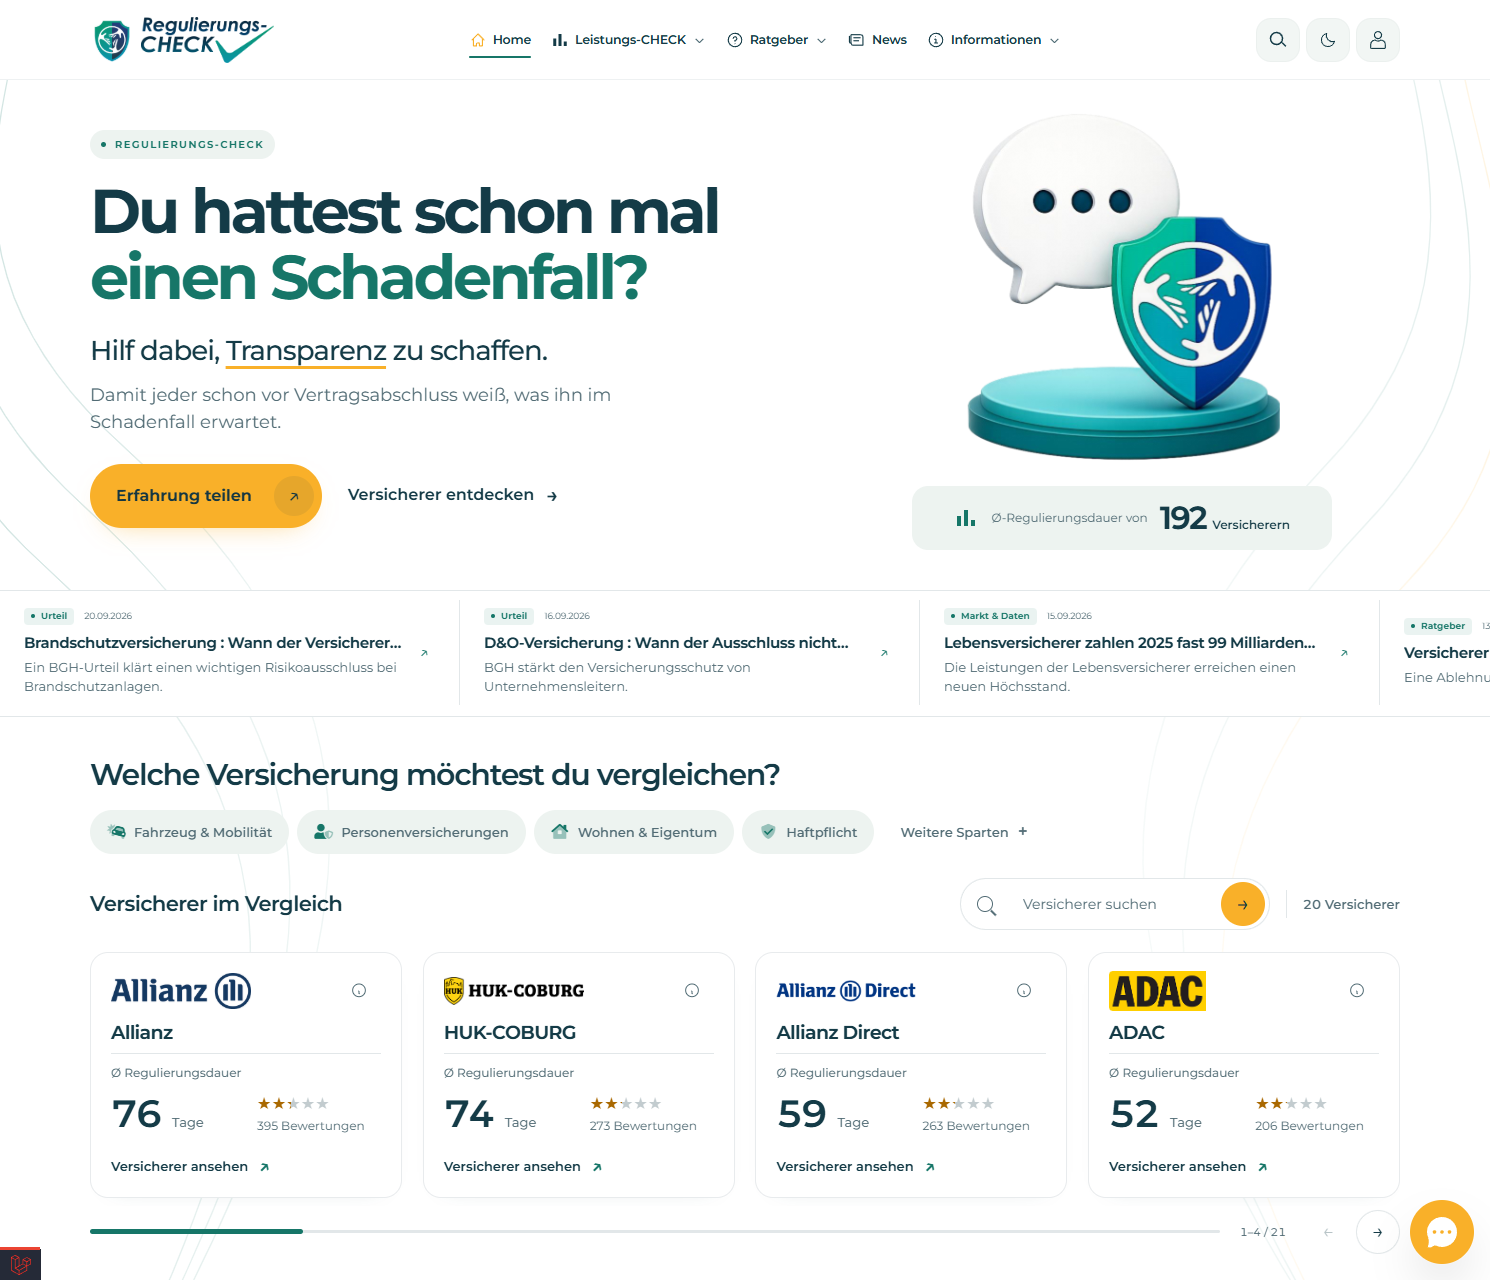
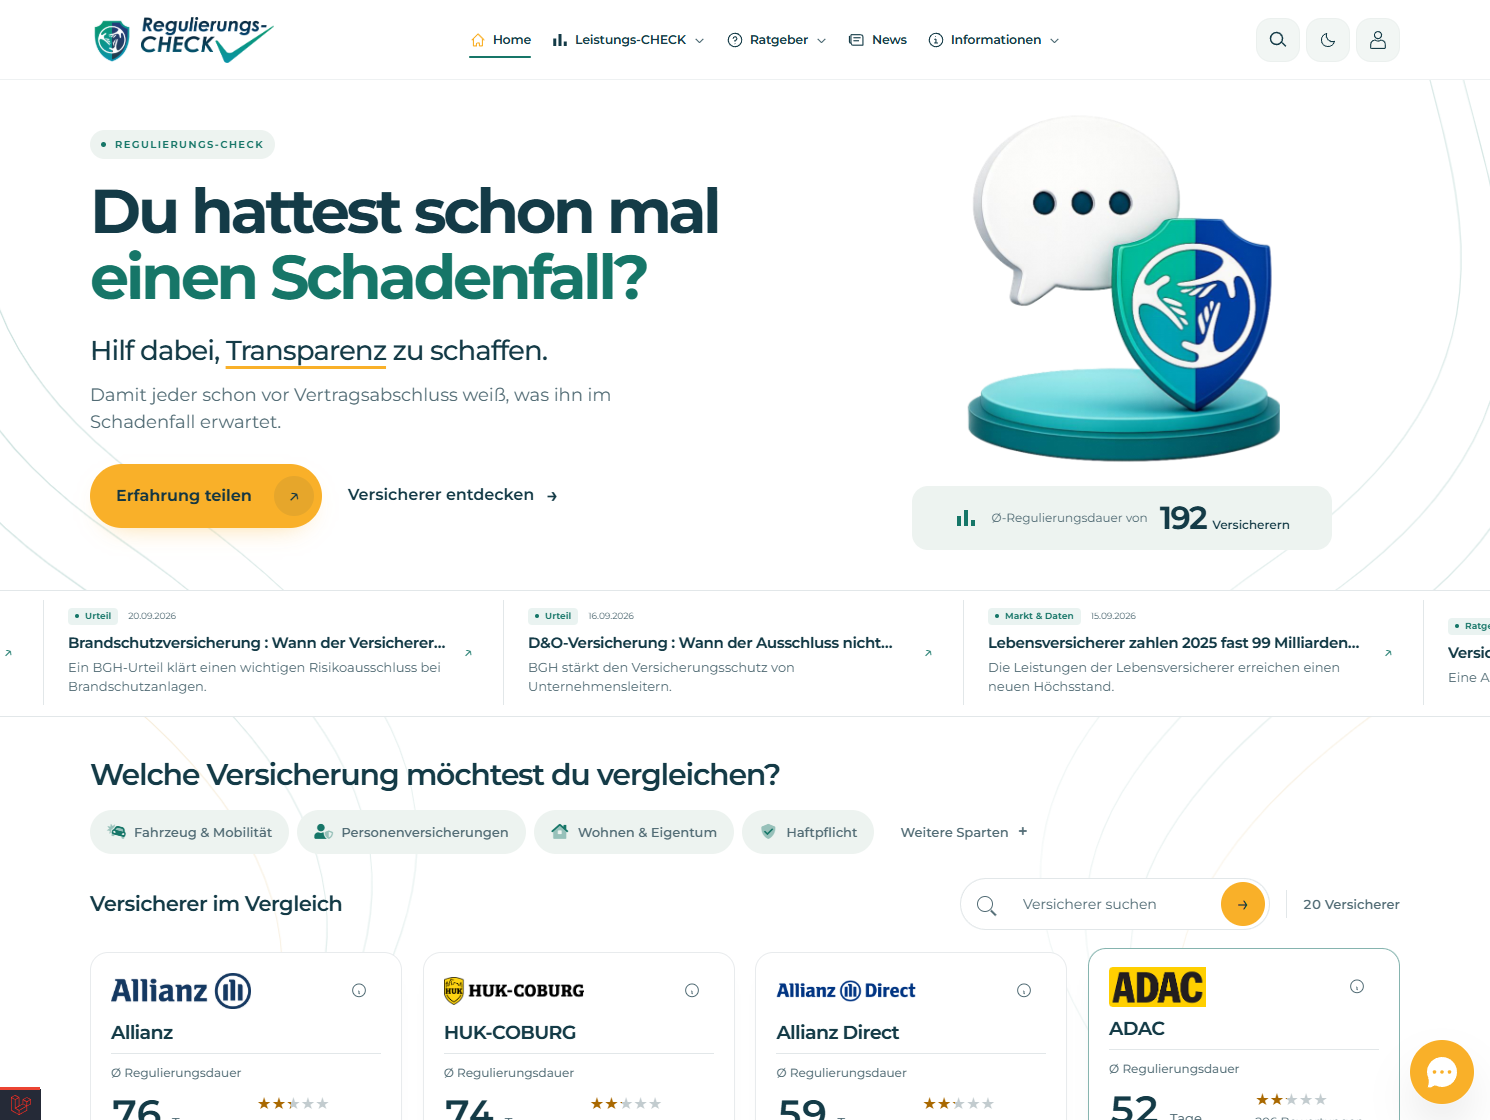
feat: Implement app background motion and enhance homepage styling

diff --git a/resources/js/app.js b/resources/js/app.js
@@ -615,6 +615,82 @@ const heroMotion = new Map();
 let observer;
 let motionRoot;
 const reducedMotion = window.matchMedia('(prefers-reduced-motion: reduce)');
+let appBackgroundMotion;
+
+function createAppBackgroundMotion(root) {
+    const layers = [...root.querySelectorAll('.app-background-layer')];
+    const properties = ['--background-x', '--background-y', '--background-rotate'];
+    const originals = layers.map(layer => properties.map(name => [name, layer.style.getPropertyValue(name), layer.style.getPropertyPriority(name)]));
+    let frame = 0;
+    let destroyed = false;
+    let current = window.scrollY || 0;
+    let target = current;
+    let lastTime = 0;
+
+    const paint = position => {
+        layers.forEach(layer => {
+            const far = layer.classList.contains('app-background-layer-far');
+            const x = far ? -Math.sin(position / 900) * 35 : Math.sin(position / 820) * 44;
+            const y = far ? Math.sin(position / 1150) * 58 : -Math.sin(position / 1050) * 76;
+            const rotation = Math.sin(position / 1500) * (far ? -.45 : .6);
+            layer.style.setProperty('--background-x', `${x.toFixed(2)}px`);
+            layer.style.setProperty('--background-y', `${y.toFixed(2)}px`);
+            layer.style.setProperty('--background-rotate', `${rotation.toFixed(3)}deg`);
+        });
+    };
+    const tick = time => {
+        frame = 0;
+        if (destroyed) return;
+        if (!root.isConnected) { destroy(); return; }
+        const delta = lastTime ? Math.min(time - lastTime, 50) : 16;
+        lastTime = time;
+        current += (target - current) * (1 - Math.exp(-delta / 140));
+        if (Math.abs(target - current) < .1) current = target;
+        paint(current);
+        if (current !== target) frame = requestAnimationFrame(tick);
+        else { root.classList.remove('is-scrolling'); lastTime = 0; }
+    };
+    const update = event => {
+        // Only the document scroll drives the canvas, never carousels or dialogs.
+        if (destroyed || (event?.type === 'scroll' && event.target !== document)) return;
+        target = Math.max(0, window.scrollY || 0);
+        if (!frame && target !== current) {
+            root.classList.add('is-scrolling');
+            frame = requestAnimationFrame(tick);
+        }
+    };
+    function destroy() {
+        if (destroyed) return;
+        destroyed = true;
+        cancelAnimationFrame(frame);
+        root.classList.remove('is-scrolling');
+        document.removeEventListener('scroll', update);
+        window.removeEventListener('resize', update);
+        layers.forEach((layer, index) => originals[index].forEach(([name, value, priority]) => {
+            if (value) layer.style.setProperty(name, value, priority);
+            else layer.style.removeProperty(name);
+        }));
+    }
+    paint(current);
+    document.addEventListener('scroll', update, { passive: true });
+    window.addEventListener('resize', update, { passive: true });
+    return { root, destroy, get destroyed() { return destroyed; } };
+}
+
+function stopAppBackgroundMotion() {
+    appBackgroundMotion?.destroy();
+    appBackgroundMotion = undefined;
+}
+
+function refreshAppBackgroundMotion() {
+    const root = document.querySelector('.app-background');
+    document.documentElement.classList.toggle('app-background-paused', document.hidden);
+    if (root && appBackgroundMotion?.root === root && !appBackgroundMotion.destroyed && !reducedMotion.matches && !document.hidden) return;
+    stopAppBackgroundMotion();
+    if (root && !reducedMotion.matches && !document.hidden) appBackgroundMotion = createAppBackgroundMotion(root);
+}
+
+document.addEventListener('visibilitychange', refreshAppBackgroundMotion);
 
 function stopHomepageMotion(resetHistory = false) {
     observer?.disconnect();
@@ -662,22 +738,20 @@ function revealHomepageElement(element) {
     }
     if (element.contains(document.activeElement)) return;
     const delay = revealDelay(element);
-    const background = element.matches('.homepage-background');
     const header = element.matches('.site-header .header-inner');
     const icon = element.matches('.hero-actions .button-icon');
     const visual = element.matches('.hero-visual');
     const cards = element.matches('.insurer-card, .review-card, #ablauf .steps article');
-    const targetOpacity = background ? Number.parseFloat(getComputedStyle(element).opacity) : 1;
-    const duration = (background ? 1500 : header ? 800 : element.closest('.hero') ? 940 : 880) + delay;
+    const targetOpacity = 1;
+    const duration = (header ? 800 : element.closest('.hero') ? 940 : 880) + delay;
     let transform = 'translate3d(0, 32px, 0)';
-    if (background) transform = 'translate3d(0, 44px, 0)';
-    else if (header) transform = 'translate3d(0, -14px, 0)';
+    if (header) transform = 'translate3d(0, -14px, 0)';
     else if (icon) transform = 'translate3d(-4px, 4px, 0) rotate(-12deg) scale(.86)';
     else if (visual) transform = 'translate3d(30px, 18px, 0) scale(.97)';
     else if (cards) transform = 'translate3d(0, 32px, 0) scale(.975)';
     else if (element.matches('.filter')) transform = 'translate3d(0, 16px, 0)';
     const start = {
-        opacity: background ? 0 : icon ? .6 : visual ? 1 : .08,
+        opacity: icon ? .6 : visual ? 1 : .08,
         transform,
     };
     const frames = [{ ...start, offset: 0 }];
@@ -827,7 +901,7 @@ function refreshHomepageMotion() {
     const headline = document.querySelector('.hero h1');
     const headlineLines = headline ? [...headline.querySelectorAll('.hero-title-line')] : [];
     const splitHeadline = headlineLines.length > 1 && headlineLines.every(line => getComputedStyle(line).display === 'block');
-    document.querySelectorAll('.homepage-background, .site-header .header-inner, .hero .eyebrow, .hero h1, .hero-title-line, .hero-subtitle, .hero-lead, .hero-actions, .hero-actions .button-icon, .hero-visual, .hero-count, #wissen, .explorer-heading, #versicherer .filter, .insurance-toolbar, .insurer-card, .experience-intro, .review-card, #ablauf .process-intro, #ablauf .steps article, #plattform > div, #newsletter, .homepage-cms-content, .homepage-cms-footer').forEach(element => {
+    document.querySelectorAll('.site-header .header-inner, .hero .eyebrow, .hero h1, .hero-title-line, .hero-subtitle, .hero-lead, .hero-actions, .hero-actions .button-icon, .hero-visual, .hero-count, #wissen, .explorer-heading, #versicherer .filter, .insurance-toolbar, .insurer-card, .experience-intro, .review-card, #ablauf .process-intro, #ablauf .steps article, #plattform > div, #newsletter, .homepage-cms-content, .homepage-cms-footer').forEach(element => {
         if (element === headline && splitHeadline) return;
         if (headlineLines.includes(element) && !splitHeadline) return;
         const key = revealKey(element);
@@ -842,6 +916,7 @@ function refreshHomepageMotion() {
 }
 
 const onHomepageMotionChange = () => {
+    refreshAppBackgroundMotion();
     stopHomepageMotion();
     refreshHomepageMotion();
 };
@@ -906,6 +981,7 @@ function initializeSearch() {
 }
 
 function synchronizeHomepage() {
+    refreshAppBackgroundMotion();
     stopSearch();
     const home = document.body.classList.contains('rc-home');
     document.documentElement.toggleAttribute('data-homepage', home);
@@ -951,8 +1027,12 @@ document.addEventListener('livewire:navigating', () => {
     stopSearch();
     stopSliders();
     stopHomepageMotion(true);
+    stopAppBackgroundMotion();
 });
-window.addEventListener('pagehide', () => { stopSearch(); stopSliders(); stopHomepageMotion(true); });
+window.addEventListener('pagehide', () => {
+    stopSearch(); stopSliders(); stopHomepageMotion(true); stopAppBackgroundMotion();
+    document.documentElement.classList.add('app-background-paused');
+});
 window.addEventListener('pageshow', event => { if (event.persisted) scheduleRefresh(); });
 if (document.readyState === 'loading') document.addEventListener('DOMContentLoaded', scheduleRefresh, { once: true });
 else scheduleRefresh();

diff --git a/resources/css/app.css b/resources/css/app.css
@@ -3676,43 +3676,67 @@ body.rc-home.homepage .homepage-cms-footer button[type=submit]:active{transform:
   body.rc-home.homepage .footer-bottom>div{gap:2px 16px;}
 }
 
-/* Quiet vector lines follow scroll progress behind the homepage content. */
-body.rc-home.homepage{isolation:isolate;}
-body.rc-home.homepage .homepage-background{
-  position:fixed;inset:-20% -3%;z-index:-1;overflow:hidden;pointer-events:none;
-  color:var(--accent);opacity:.26;
-  -webkit-mask-image:linear-gradient(90deg,#000,transparent 34%,transparent 66%,#000);
-  mask-image:linear-gradient(90deg,#000,transparent 34%,transparent 66%,#000);
+/* Shared canvas: entrance, quiet drift and scroll motion have separate layers. */
+body.has-app-background{
+  isolation:isolate;
+  --app-background-ink:#167668;--app-background-gold:#cf9a35;--app-background-opacity:.3;
 }
-body.rc-home.homepage .homepage-background-lines{
-  position:absolute;inset:0;display:block;width:100%;height:100%;
-  stroke:currentColor;stroke-width:1.35;stroke-linecap:round;opacity:.8;transform-box:border-box;
+body.has-app-background.bg-main::after{z-index:-2;}
+body.has-app-background.bg-main:not(.rc-home):not([data-app-surface=paper]){
+  --app-background-ink:#9ce6d8;--app-background-gold:#f5cf83;--app-background-opacity:.24;
 }
-body.rc-home.homepage .homepage-background-lines path{vector-effect:non-scaling-stroke;}
-body.rc-home.homepage .homepage-background-lines-far{opacity:.55;}
-body.rc-home.homepage .homepage-background-line-warm{stroke:var(--gold);}
-html[data-homepage][data-theme=dark] body.rc-home.homepage .homepage-background{opacity:.18;}
-@keyframes homepage-lines-near{
-  from{transform:translate3d(0,0,0);}
-  to{transform:translate3d(36px,-14%,0);}
+body.has-app-background[data-app-surface=paper]:not(.rc-home){background:#fff;}
+body.has-app-background[data-app-surface=paper]::after{content:none;}
+body.has-app-background[data-app-surface=muted]{background:#f3f4f6;}
+body.has-app-background .app-background-canvas{background-color:transparent;}
+.app-background{
+  position:fixed;inset:-28% -10%;z-index:-1;overflow:hidden;pointer-events:none;
+  color:var(--app-background-ink);opacity:var(--app-background-opacity);
+  -webkit-mask-image:linear-gradient(90deg,#000,rgba(0,0,0,.48) 25%,rgba(0,0,0,.03) 46%,rgba(0,0,0,.03) 54%,rgba(0,0,0,.48) 75%,#000);
+  mask-image:linear-gradient(90deg,#000,rgba(0,0,0,.48) 25%,rgba(0,0,0,.03) 46%,rgba(0,0,0,.03) 54%,rgba(0,0,0,.48) 75%,#000);
 }
-@keyframes homepage-lines-far{
-  from{transform:translate3d(0,-4%,0);}
-  to{transform:translate3d(-28px,10%,0);}
+.app-background-layer{
+  position:absolute;inset:0;transform-origin:50% 50%;
+  transform:translate3d(var(--background-x,0px),var(--background-y,0px),0) rotate(var(--background-rotate,0deg));
 }
-@supports(animation-timeline:scroll()){
-  @media(prefers-reduced-motion:no-preference){
-    body.rc-home.homepage .homepage-background-lines{
-      animation:homepage-lines-near 1s linear both;
-      animation-timeline:scroll(root block);
-    }
-    body.rc-home.homepage .homepage-background-lines-far{animation-name:homepage-lines-far;}
-  }
+.app-background-lines{display:block;width:100%;height:100%;stroke:currentColor;stroke-width:1.15;stroke-linecap:round;overflow:visible;}
+.app-background-lines path{vector-effect:non-scaling-stroke;}
+.app-background-strokes{transform-box:fill-box;transform-origin:center;}
+.app-background-line-warm{stroke:var(--app-background-gold);opacity:.75;}
+.app-background-layer-far{opacity:.72;}
+.app-background.is-scrolling .app-background-layer{will-change:transform;}
+.app-background-layer-near{--background-entry-x:-28px;--background-entry-y:20px;}
+.app-background-layer-far{--background-entry-x:28px;--background-entry-y:-16px;}
+html[data-theme=dark] body.rc-home.has-app-background{
+  --app-background-ink:#8bd5c1;--app-background-gold:#e7b85e;--app-background-opacity:.26;
 }
+@keyframes app-background-enter{
+  from{opacity:.12;transform:translate3d(0,var(--background-entry-y),0) scale(1.015);}
+  to{opacity:1;transform:translate3d(0,0,0) scale(1);}
+}
+@keyframes app-background-unfold{
+  from{opacity:.15;transform:translate3d(var(--background-entry-x),0,0);}
+  to{opacity:1;transform:translate3d(0,0,0);}
+}
+@keyframes app-background-drift{
+  from{transform:translate3d(-8px,10px,0) rotate(-.35deg);}
+  to{transform:translate3d(18px,-16px,0) rotate(.35deg);}
+}
+@media(prefers-reduced-motion:no-preference){
+  .app-background-lines{animation:app-background-enter 1800ms cubic-bezier(.22,1,.36,1) both;}
+  .app-background-strokes{animation:app-background-drift 24s cubic-bezier(.45,0,.55,1) 1800ms infinite alternate both;}
+  .app-background-layer-far .app-background-strokes{animation-direction:alternate-reverse;animation-duration:29s;}
+  .app-background-lines path{animation:app-background-unfold 1800ms cubic-bezier(.22,1,.36,1) both;}
+  .app-background-lines path:nth-child(2){animation-delay:90ms;}
+  .app-background-lines path:nth-child(3){animation-delay:180ms;}
+  .app-background-lines path:nth-child(4){animation-delay:270ms;}
+}
+html.app-background-paused .app-background *{animation-play-state:paused!important;}
 @media(max-width:640px){
-  body.rc-home.homepage .homepage-background{opacity:.19;}
-  html[data-homepage][data-theme=dark] body.rc-home.homepage .homepage-background{opacity:.15;}
+  body.has-app-background{--app-background-opacity:.24;}
+  .app-background-lines{stroke-width:1;}
 }
+@media print{.app-background{display:none;}}
 
 /* Open homepage composition: original content and native carousel geometry. */
 body.rc-home.homepage .header-inner{min-height:80px;padding-inline:var(--rail-gutter);}

diff --git a/resources/views/layouts/app.blade.php b/resources/views/layouts/app.blade.php
@@ -61,21 +61,8 @@
         <!-- Styles -->
         @livewireStyles
     </head>
-    <body class="antialiased bg-main{{ $disableAosOnCurrentRoute ? ' homepage-without-aos rc-home homepage' : '' }}">
-        @if($disableAosOnCurrentRoute)
-            <div class="homepage-background" aria-hidden="true" wire:ignore>
-                <svg class="homepage-background-lines homepage-background-lines-near" viewBox="0 0 1600 1200" preserveAspectRatio="none" fill="none" focusable="false" xmlns="http://www.w3.org/2000/svg">
-                    <path d="M-120-80C340 100-180 260 170 470S400 850 40 1280" />
-                    <path d="M-160-60C300 130-220 300 130 510S360 890 0 1320" />
-                    <path d="M-200-40C260 160-260 340 90 550S320 930-40 1360" />
-                </svg>
-                <svg class="homepage-background-lines homepage-background-lines-far" viewBox="0 0 1600 1200" preserveAspectRatio="none" fill="none" focusable="false" xmlns="http://www.w3.org/2000/svg">
-                    <path d="M1710-120C1110 70 1720 300 1390 530S1180 960 1650 1350" />
-                    <path d="M1750-80C1150 110 1760 340 1430 570S1220 1000 1690 1390" />
-                    <path class="homepage-background-line-warm" d="M1790-40C1190 150 1800 380 1470 610S1260 1040 1730 1430" />
-                </svg>
-            </div>
-        @endif
+    <body class="antialiased bg-main has-app-background{{ $disableAosOnCurrentRoute ? ' homepage-without-aos rc-home homepage' : '' }}" @if(request()->routeIs('home', 'news.index', 'news.show')) data-app-surface="paper" @endif>
+        <x-app-background />
         <div id="main" >
             @livewire('user-alert')
             @if($disableAosOnCurrentRoute)

diff --git a/resources/views/components/app-background.blade.php b/resources/views/components/app-background.blade.php
@@ -1,0 +1,22 @@
+<div class="app-background" aria-hidden="true" wire:ignore>
+    <div class="app-background-layer app-background-layer-near">
+        <svg class="app-background-lines" viewBox="0 0 1600 1200" preserveAspectRatio="none" fill="none" focusable="false" xmlns="http://www.w3.org/2000/svg">
+            <g class="app-background-strokes">
+                <path pathLength="1" d="M-90-120C520 80-200 330 260 570S410 970 20 1320" />
+                <path pathLength="1" d="M-130-90C480 110-240 360 220 600S370 1000-20 1350" />
+                <path pathLength="1" d="M-170-60C440 140-280 390 180 630S330 1030-60 1380" />
+                <path class="app-background-line-warm" pathLength="1" d="M-210-30C400 170-320 420 140 660S290 1060-100 1410" />
+            </g>
+        </svg>
+    </div>
+    <div class="app-background-layer app-background-layer-far">
+        <svg class="app-background-lines" viewBox="0 0 1600 1200" preserveAspectRatio="none" fill="none" focusable="false" xmlns="http://www.w3.org/2000/svg">
+            <g class="app-background-strokes">
+                <path pathLength="1" d="M1660-120C1050 120 1740 350 1280 590S1200 990 1630 1330" />
+                <path pathLength="1" d="M1700-90C1090 150 1780 380 1320 620S1240 1020 1670 1360" />
+                <path pathLength="1" d="M1740-60C1130 180 1820 410 1360 650S1280 1050 1710 1390" />
+                <path class="app-background-line-warm" pathLength="1" d="M1780-30C1170 210 1860 440 1400 680S1320 1080 1750 1420" />
+            </g>
+        </svg>
+    </div>
+</div>

diff --git a/resources/views/layouts/guest.blade.php b/resources/views/layouts/guest.blade.php
@@ -19,10 +19,11 @@
         <!-- Styles -->
         @livewireStyles
     </head>
-    <body class="font-sans antialiased">
+    <body class="font-sans antialiased has-app-background" data-app-surface="muted">
+        <x-app-background />
         <x-banner />
 
-        <div class="min-h-screen bg-gray-100">
+        <div class="min-h-screen bg-gray-100 app-background-canvas">
         @livewire('user-navigation-menu')
             <!-- Page Heading -->
             @if (isset($header))

diff --git a/resources/views/layouts/promotion.blade.php b/resources/views/layouts/promotion.blade.php
@@ -25,7 +25,8 @@
         @media (prefers-reduced-motion:reduce) { .promotion-enter,.promotion-enter-delayed,.promotion-status-orbit,.promotion-status-pulse { animation:none!important; } }
     </style>
 </head>
-<body class="promotion-shell min-h-[100dvh] text-slate-950 antialiased">
+<body class="promotion-shell min-h-[100dvh] text-slate-950 antialiased has-app-background">
+    <x-app-background />
     {{ $slot }}
     @livewireScripts
 </body>

diff --git a/resources/views/components/authentication-card.blade.php b/resources/views/components/authentication-card.blade.php
@@ -1,4 +1,4 @@
-<div class="min-h-screen flex flex-col sm:justify-center items-center pt-6 sm:pt-0 bg-gray-100">
+<div class="min-h-screen flex flex-col sm:justify-center items-center pt-6 sm:pt-0 bg-gray-100 app-background-canvas">
     
 
     <div class="w-full sm:max-w-md mt-6 px-6 py-4 bg-white shadow-md overflow-hidden sm:rounded-lg">

diff --git a/resources/views/livewire/articles/news/news-list.blade.php b/resources/views/livewire/articles/news/news-list.blade.php
@@ -1,4 +1,4 @@
-<section class="min-h-screen w-full bg-white">
+<section class="min-h-screen w-full bg-white app-background-canvas">
     <div class="container mx-auto px-3 pb-12 pt-3 sm:pb-16 sm:pt-5">
         <div class="w-full">
         @if($isAdminPreview)

diff --git a/resources/views/livewire/articles/news/news-show.blade.php b/resources/views/livewire/articles/news/news-show.blade.php
@@ -11,7 +11,7 @@
 @endphp
 
 <div
-    class="min-h-screen w-full bg-white text-slate-900"
+    class="min-h-screen w-full bg-white text-slate-900 app-background-canvas"
     :style="`margin-top: -${$store.nav.height}px`"
 >
     <article>
